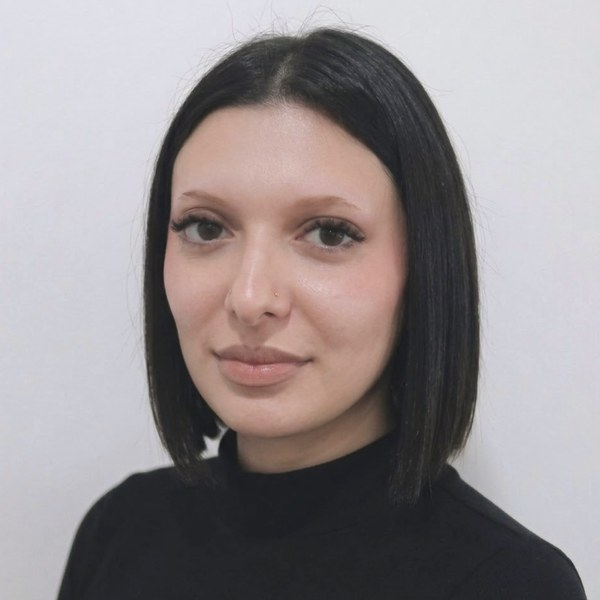
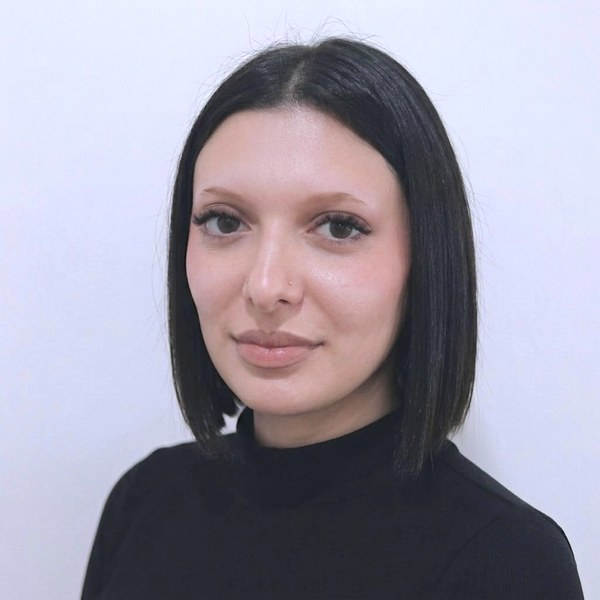
Update headshot; add published JMIR paper and Lancet print citation
Claude-Session: https://claude.ai/code/session_01SpvXJpv3wh6ZjRXVbpLhSS

diff --git a/index.html b/index.html
@@ -226,6 +226,8 @@
     <section id="news">
       <h2>News &amp; press</h2>
       <ul class="plain">
+        <li><span class="when">Nov 3, 2026</span><span><b><a href="https://doi.org/10.2196/83637">Paper published in the Journal of Medical Internet Research: study design and lessons learned from using Google Takeout donations for suicide prevention research</a></b> <span class="muted">With the University of Washington.</span></span></li>
+        <li><span class="when">Oct 24, 2026</span><span><b><a href="https://doi.org/10.1016/S0140-6736(26)01535-7">Conversational diagnostic AI paper appears in print in The Lancet</a></b> <span class="muted">Volume 408, issue 10565.</span></span></li>
         <li><span class="when">Oct 9, 2026</span><span><b><a href="https://bidmc.org/news-stories/all-news-stories/news/2026/10/bidmc-research-shows-safety-quality-of-ai-in-primary-care">BIDMC researchers conduct first real-world study of safety and quality of patient-facing AI in primary care</a></b> <span class="muted">Beth Israel Deaconess Medical Center.</span></span></li>
         <li><span class="when">Oct 8, 2026</span><span><b><a href="https://www.nytimes.com/2026/10/08/technology/ai-chatbots-urgent-care.html">Clinical trial indicates A.I. chatbots could aid urgent care</a></b> <span class="muted">Cade Metz, The New York Times.</span></span></li>
         <li><span class="when">Oct 8, 2026</span><span><b><a href="https://doi.org/10.1016/S0140-6736(26)01535-7">Paper published in The Lancet: conversational diagnostic AI in ambulatory primary care, a prospective feasibility study</a></b> <span class="muted">With Google Research and BIDMC.</span></span></li>
@@ -375,7 +377,7 @@
               <h4>Publications</h4>
               <ul>
                 <li><a href="https://doi.org/10.1038/s41597-022-01633-7">Real-world behavioral dataset from two fully remote smartphone-based randomized clinical trials for depression</a> <span class="pv">Scientific Data, 2022</span></li>
-                <li><a href="https://doi.org/10.2196/preprints.83637">Using Google Takeout donations for suicide prevention research: study design and lessons learned</a> <span class="pv">JMIR Preprints, 2025</span></li>
+                <li><a href="https://doi.org/10.2196/83637">Study design and lessons learned from using Google Takeout donations for suicide prevention research: prospective cohort study</a> <span class="pv">Journal of Medical Internet Research, 2026</span></li>
               </ul>
             </div>
           </div>
@@ -385,20 +387,17 @@
 
     <section id="publications">
       <h2>Publications</h2>
-      <h3 class="sub" id="preprints">Preprints</h3>
-      <ol class="pubs">
-        <li><div class="cite">
-          <span class="title">Using Google Takeout donations for suicide prevention research: study design and lessons learned</span>
-          Comtois KA, Smythe P, Kerbrat A, Kim EH, Crouch N, <b>Homiar A</b>, et al. (2025). <span class="venue">JMIR Preprints</span>.
-          <div class="pub-meta"><a href="https://doi.org/10.2196/preprints.83637">DOI</a></div>
-        </div></li>
-      </ol>
       <h3 class="sub">Papers</h3>
       <ol class="pubs">
         <li><div class="cite">
+          <span class="title">Study design and lessons learned from using Google Takeout donations for suicide prevention research: prospective cohort study</span>
+          Comtois KA, Smythe P, Kerbrat A, Kim EH, Crouch N, <b>Homiar A</b>, Mosser B, Sams N, Harvey ML, Bagge CL, Cohen T, Arean PA (2026). <span class="venue">Journal of Medical Internet Research, 28, e83637</span>.
+          <div class="pub-meta"><a href="https://doi.org/10.2196/83637">DOI</a><a href="https://preprints.jmir.org/preprint/83637">Preprint</a></div>
+        </div></li>
+        <li><div class="cite">
           <span class="title">Conversational diagnostic artificial intelligence in ambulatory primary care: a prospective feasibility study</span>
-          Brodeur PG, Koshy JM, Palepu A, Saab K, <b>Homiar A</b>, et al. (2026). <span class="venue">The Lancet, published online October 8, 2026</span>.
-          <div class="pub-meta"><a href="https://doi.org/10.1016/S0140-6736(26)01535-7">DOI</a><a href="https://arxiv.org/abs/2603.08448">arXiv</a></div>
+          Brodeur PG, Koshy JM, Palepu A, Saab K, <b>Homiar A</b>, et al. (2026). <span class="venue">The Lancet, 408(10565), 1732–1744</span>.
+          <div class="pub-meta"><a href="https://doi.org/10.1016/S0140-6736(26)01535-7">DOI</a><a href="https://pubmed.ncbi.nlm.nih.gov/42849491/">PubMed</a><a href="https://arxiv.org/abs/2603.08448">arXiv</a></div>
         </div></li>
         <li><div class="cite">
           <span class="title">Methodological insights from the iterative co-design and phase 2 evaluation of EMPATHICA, a digital health medication chatbot</span>
@@ -466,7 +465,7 @@
     </section>
   </main>
 
-  <footer><span>© 2026 Ava Homiar</span><span>Last updated October 2026</span></footer>
+  <footer><span>© 2026 Ava Homiar</span><span>Last updated November 2026</span></footer>
 </div>
 
 <script>
